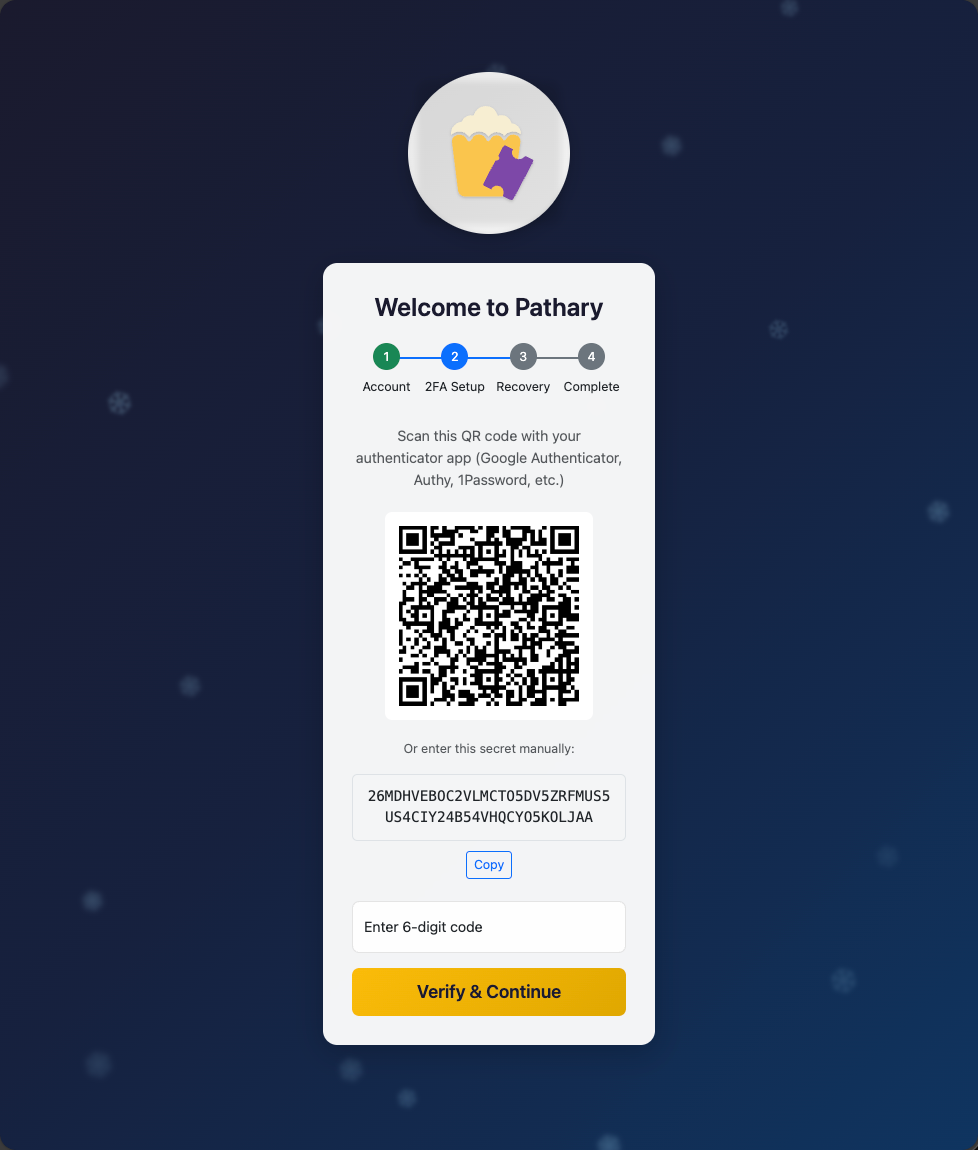
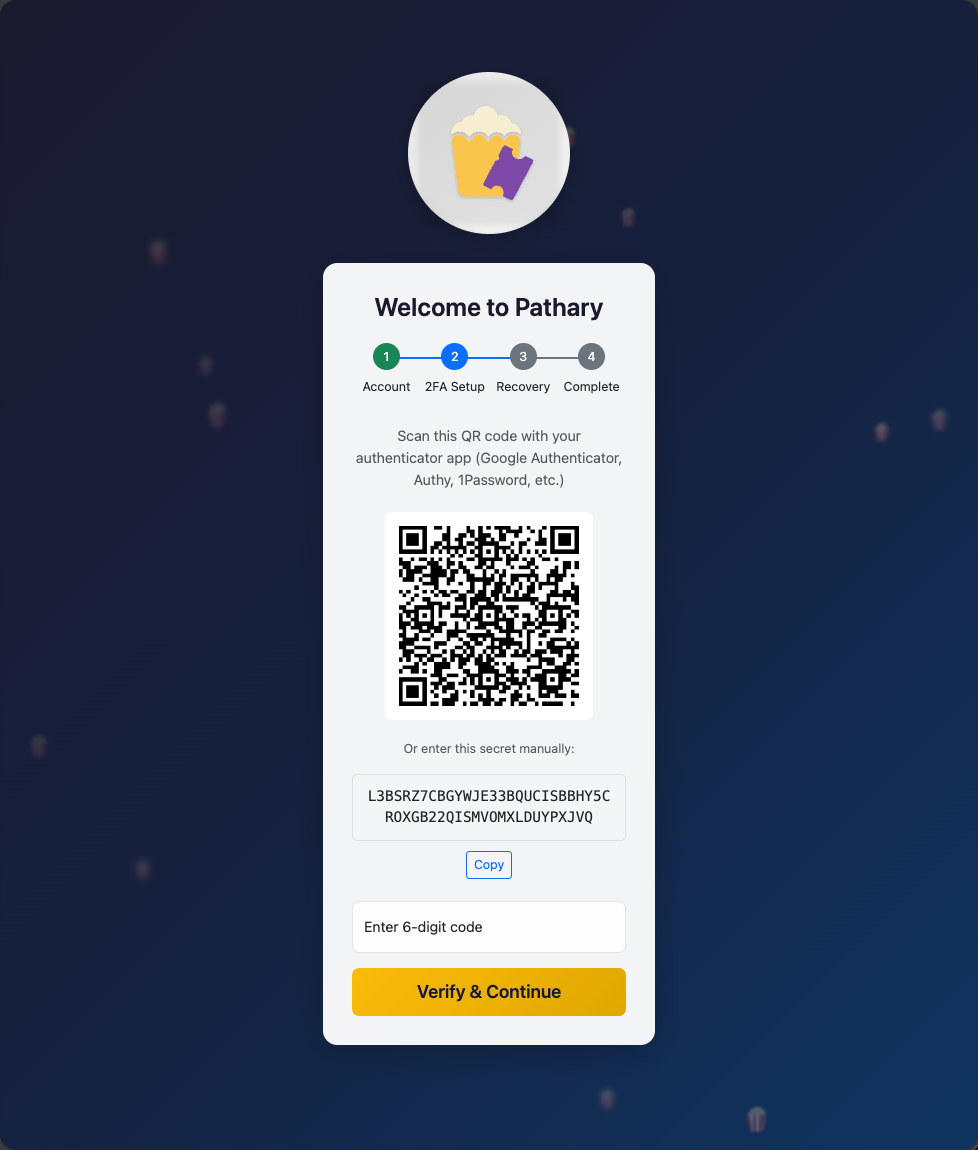
Fix init wizard popcorn animation and setup completion bug
Fixed two issues with the /init setup wizard:

1. **Background Animation**: Changed from snowflakes to popcorn to match login page
   - Copied exact CSS and JavaScript from login.css and login-bg.js
   - Updated emoji from ❄ to 🍿
   - Updated class names and comments
   - Added reduced motion fallback with static popcorn

2. **Setup Completion Bug**: Fixed silently failing setup_completed flag
   - Changed SetupService::markSetupCompleted() from UPDATE to INSERT...ON DUPLICATE KEY UPDATE
   - Bug: UPDATE only works if row exists, but row was missing after database reset
   - Fix: INSERT...ON DUPLICATE KEY UPDATE works whether row exists or not
   - This prevented "redirect to /init after login" issue

3. **Updated Screenshots**: Replaced init screenshots with corrected versions showing popcorn animation

Files changed:
- public/js/init-wizard-bg.js - Now identical to login-bg.js
- templates/init/wizard.twig - Updated CSS to match login.css
- src/Service/SetupService.php - Fixed markSetupCompleted() method
- docs/images/init-screen*.png - Updated screenshots with popcorn

🤖 Generated with [Claude Code](https://claude.com/claude-code)

diff --git a/public/js/init-wizard-bg.js b/public/js/init-wizard-bg.js
@@ -1,6 +1,6 @@
 /**
- * Falling Snowflake Background Animation
- * Creates a snowfall effect with blurred snowflake emojis
+ * Falling Popcorn Background Animation
+ * Creates a snowfall-like effect with blurred popcorn emojis
  */
 (function() {
     'use strict';
@@ -10,6 +10,7 @@
 
     if (prefersReducedMotion) {
         // Don't create animated particles for users who prefer reduced motion
+        // CSS handles static fallback via ::before and ::after
         return;
     }
 
@@ -26,7 +27,7 @@
         maxFallDuration: 28,
         minSwayDuration: 3,
         maxSwayDuration: 8,
-        emoji: '❄'
+        emoji: '🍿'
     };
 
     /**
@@ -48,17 +49,17 @@
      */
     function createContainer() {
         const container = document.createElement('div');
-        container.className = 'snowflake-bg';
+        container.className = 'popcorn-bg';
         container.setAttribute('aria-hidden', 'true');
         return container;
     }
 
     /**
-     * Create a single snowflake particle
+     * Create a single popcorn particle
      */
     function createParticle(index, total) {
         const particle = document.createElement('span');
-        particle.className = 'snowflake';
+        particle.className = 'popcorn';
         particle.textContent = CONFIG.emoji;
 
         // Distribute particles evenly across the viewport width
@@ -89,7 +90,7 @@
     }
 
     /**
-     * Initialize the snowflake background
+     * Initialize the popcorn background
      */
     function init() {
         const container = createContainer();

diff --git a/src/Service/SetupService.php b/src/Service/SetupService.php
@@ -26,8 +26,9 @@ class SetupService
     public function markSetupCompleted() : void
     {
         $this->dbConnection->executeStatement(
-            'UPDATE server_setting SET value = ? WHERE `key` = ?',
-            ['true', self::SETUP_COMPLETED_KEY],
+            'INSERT INTO server_setting (`key`, `value`) VALUES (?, ?)
+             ON DUPLICATE KEY UPDATE `value` = ?',
+            [self::SETUP_COMPLETED_KEY, 'true', 'true'],
         );
     }
 
